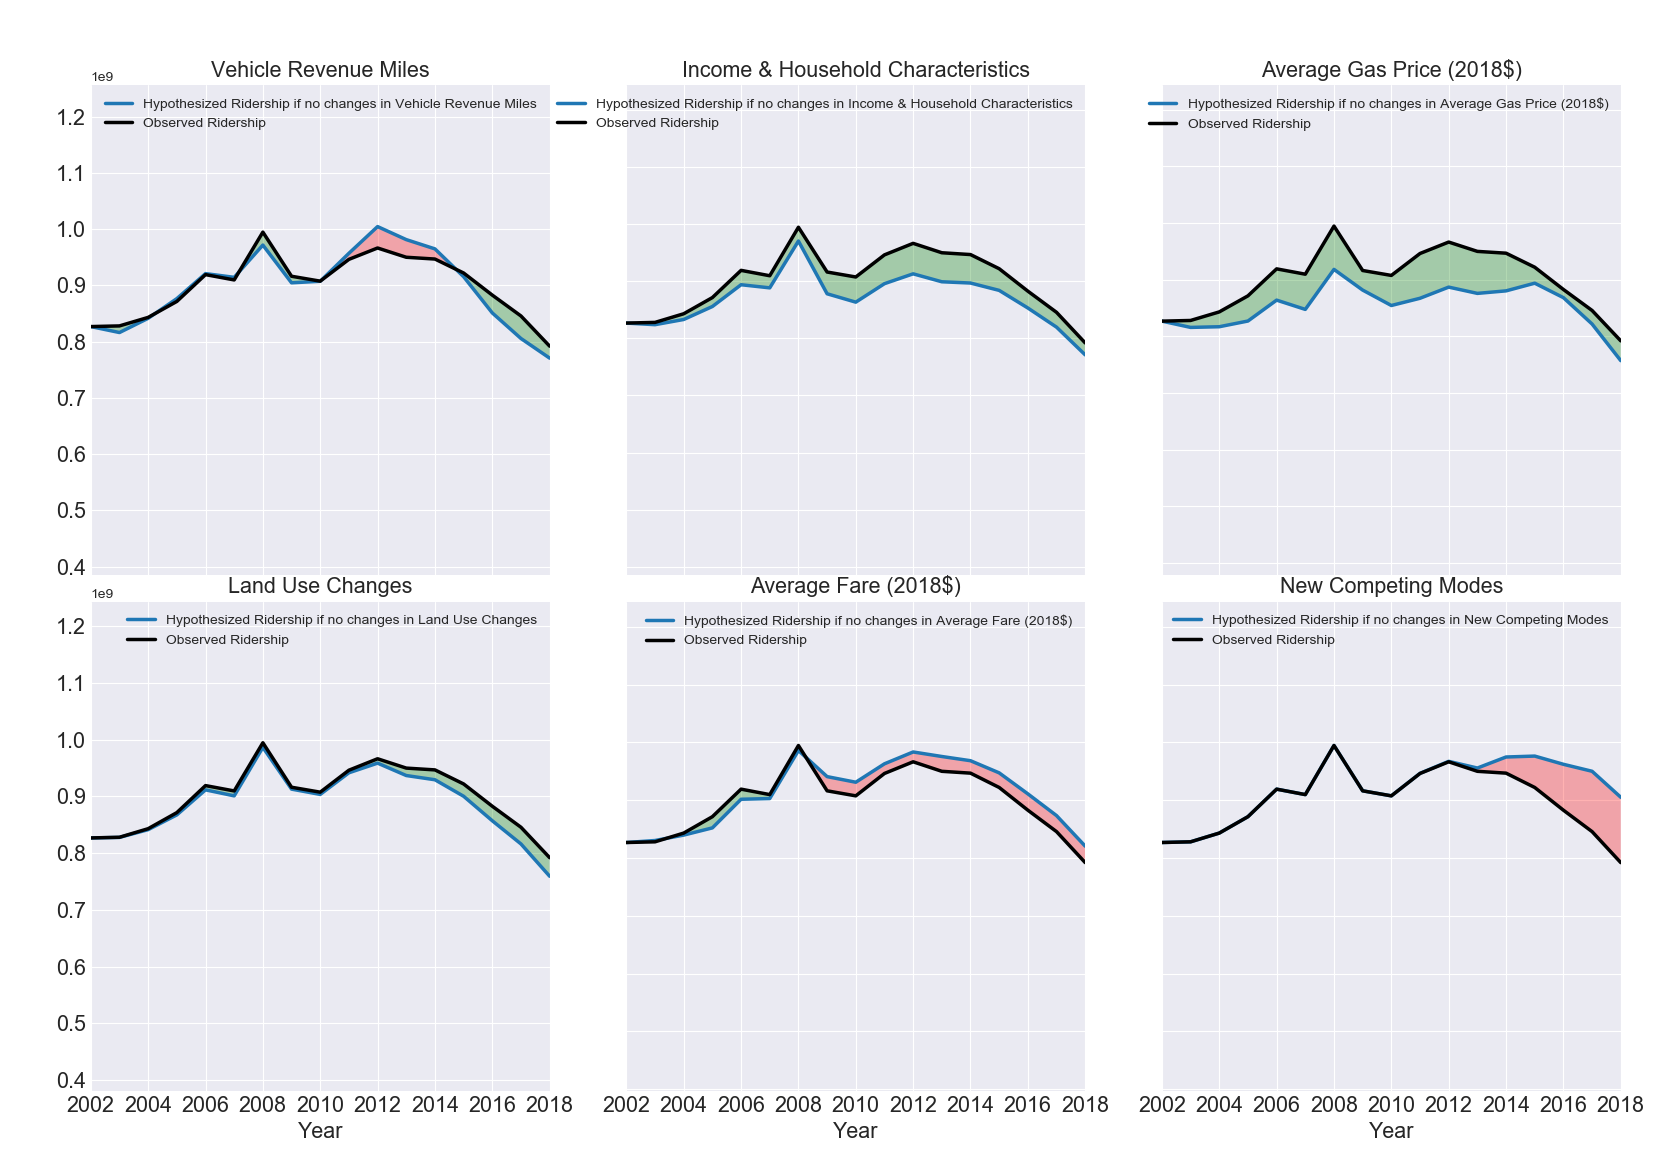
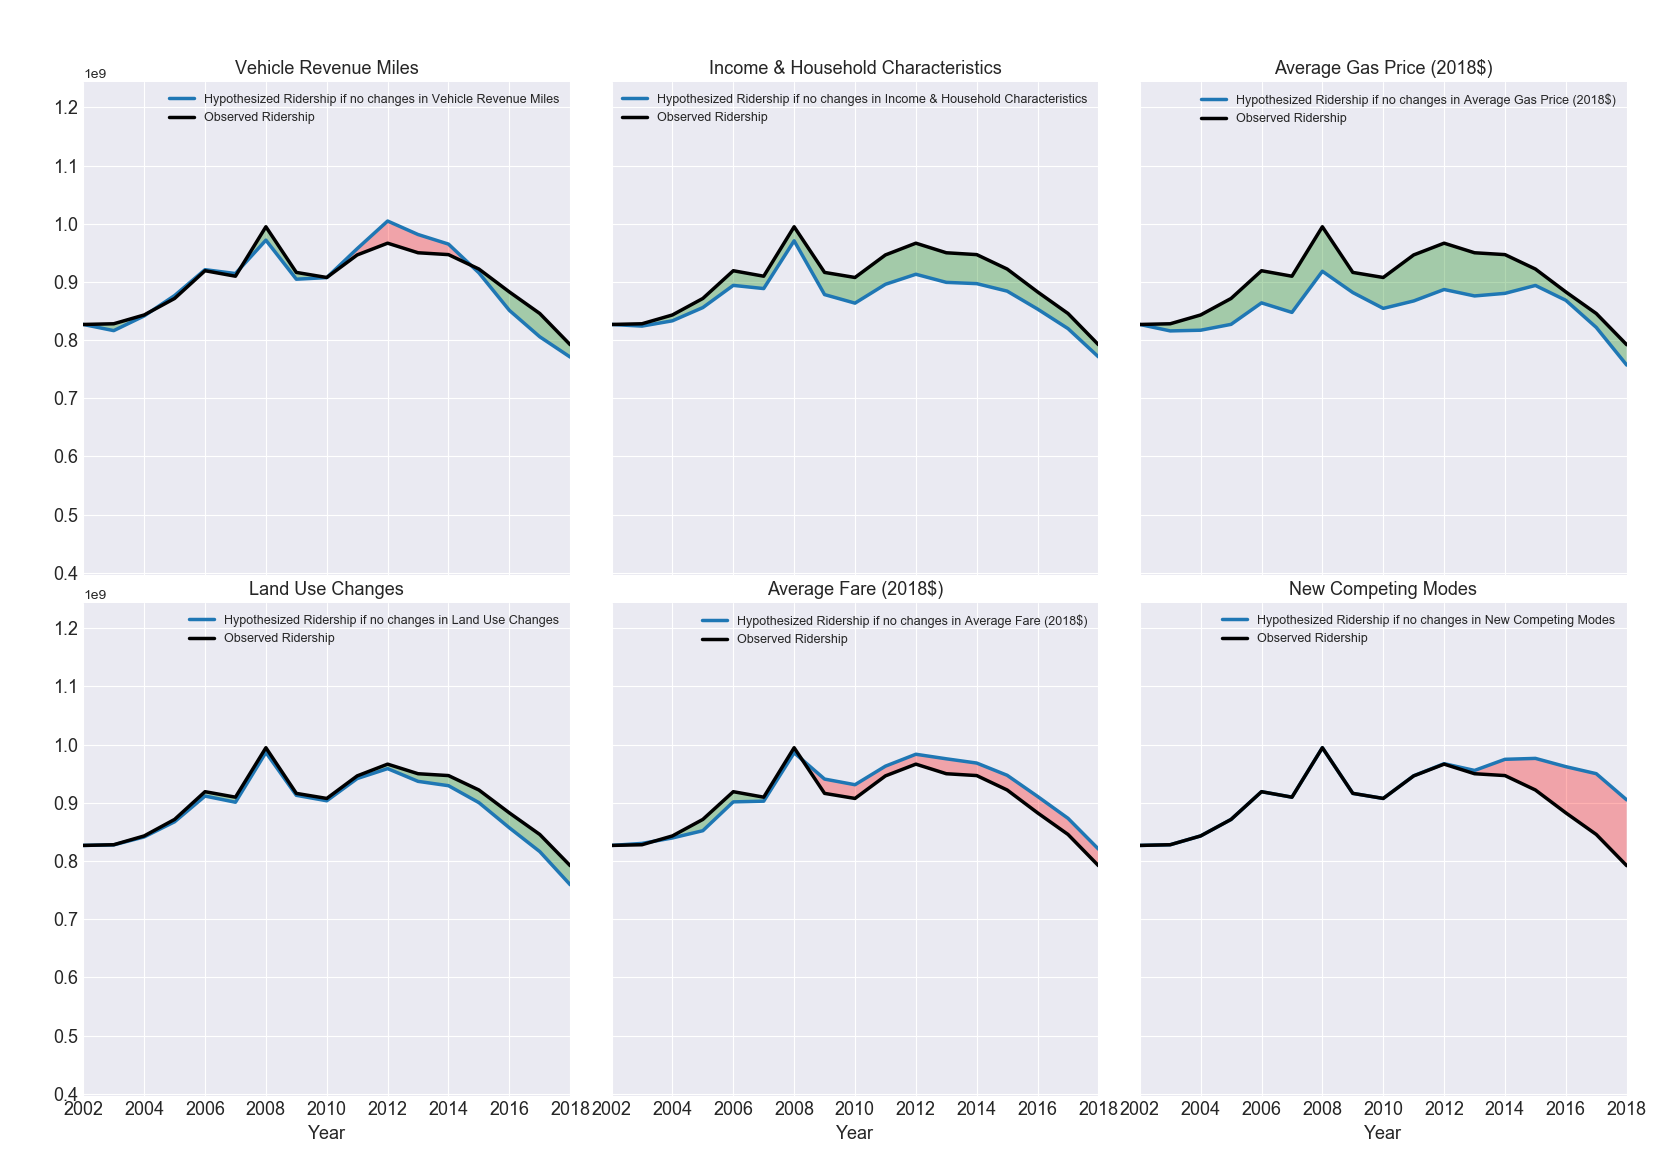
all subaxis scaled to one limit
all subaxis scaled to one limit

diff --git a/Factors and Ridership Data/code/TCRP_Summary_Charts.py b/Factors and Ridership Data/code/TCRP_Summary_Charts.py
@@ -75,7 +75,7 @@ def TCRP_Summary_Charts(df, clustercolumn, chartcols, plot_labels):
             col = 0
             row = 0
             num = 0
-            fig, ax = plt.subplots(nrows=2, ncols=3, figsize=(20, 18), constrained_layout=False, squeeze=False)
+            fig, ax = plt.subplots(nrows=2, ncols=3, figsize=(22, 19), sharex=True, sharey=True, constrained_layout=False, squeeze=False)
             combinechartscol = []
             combinedchartslabel = []
             df_cluster['Vehicle_Revenue_Miles'] = df_cluster['UPT_ADJ_VRM_ADJ_log_FAC_cumsum']
@@ -115,9 +115,9 @@ def TCRP_Summary_Charts(df, clustercolumn, chartcols, plot_labels):
                                                 y=str(combinechartcol),
                                                 label='Hypothesized Ridership if no changes in ' + str(combinedchartlabel),
                                                 ax=ax[row][col], legend=True,
-                                                fontsize=13, linewidth=2.5)
+                                                fontsize=12, linewidth=2.5)
                 df_cluster.groupby('Mode').plot(x='Year', y='UPT_ADJ', label='Observed Ridership', ax=ax[row][col],
-                                                  legend=True, color='black', linewidth=2.5, fontsize=13)
+                                                  legend=True, color='black', linewidth=2.5, fontsize=12)
                 # Paint the area
                 ax[row][col].fill_between(df_cluster['Year'].values, df_cluster[combinechartcol].values,
                                           df_cluster['UPT_ADJ'].values,
@@ -128,10 +128,10 @@ def TCRP_Summary_Charts(df, clustercolumn, chartcols, plot_labels):
                                           where=df_cluster['UPT_ADJ'].values <= df_cluster[combinechartcol].values,
                                           facecolor='red', interpolate=True, alpha=transparency)
 
-                ax[row][col].set_xlabel(xlabel="Year", fontsize=15.5)
-                ax[row][col].tick_params(labelsize=15.5)
-                ax[row][col].legend(loc='best')
-                ax[row][col].set_title(str(combinedchartlabel), fontsize=15.5)
+                ax[row][col].set_xlabel(xlabel="Year", fontsize=13)
+                ax[row][col].tick_params(labelsize=13)
+                ax[row][col].legend(loc='best', fontsize=9)
+                ax[row][col].set_title(str(combinedchartlabel), fontsize=13)
                 try:
                     ax[row][col].grid(True)
                     ax[row][col].margins(0.20)
@@ -189,7 +189,7 @@ def TCRP_Summary_Charts(df, clustercolumn, chartcols, plot_labels):
             figname = ("TCRP Summary Graphs - " + mode_name + " - " + str(cluster_title) + ".png")
             figcounter += 1
             fig.savefig(figname)
-            plt.suptitle(clustercolumn, fontsize=18)
+            plt.suptitle(clustercolumn, fontsize=15)
             plt.close(fig)
             x += 1
             clusternumber += 1
